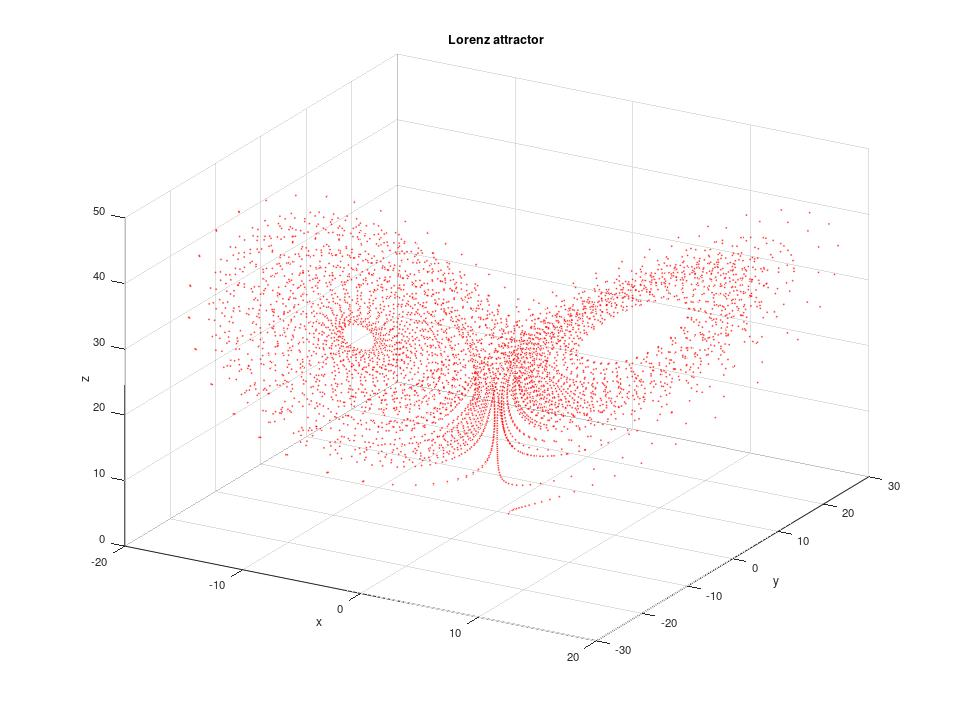
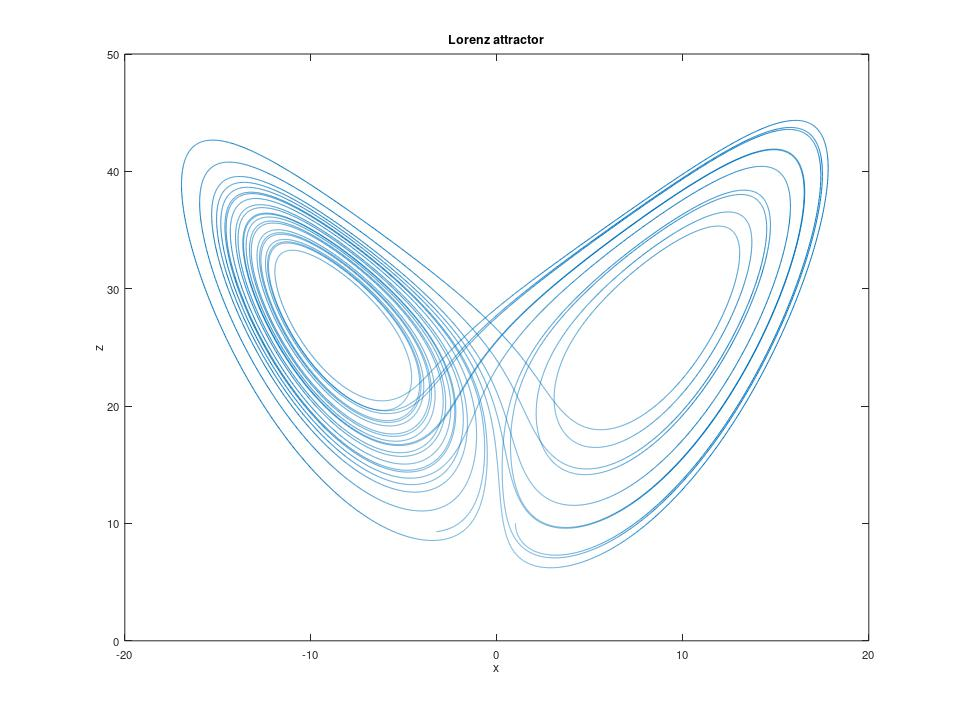
lorenz attactor xz plane

diff --git a/ode/lorenz_attractor/octave/attractor.m b/ode/lorenz_attractor/octave/attractor.m
@@ -1,8 +1,8 @@
 % Lorenz attractor
 
+rho = 28;
 sigma = 10;
 beta = 8/3;
-rho = 28;
 
 f = @(t, u) [
   -sigma*u(1) + sigma*u(2);
@@ -10,13 +10,18 @@ f = @(t, u) [
   -beta*u(3) + u(1)*u(2)
 ];
 
-[t, u] = ode45(f, [0 100], [1 0 0]);     % Runge-Kutta 4th/5th order ODE solver
+% Dormand-Prince adaptive ODE solver
+opt = odeset("MaxStep", 0.002);
+[t, u] = ode45(f, [0 24], [1 1 10], opt);
 
-scatter3(u(:, 1), u(:, 2), u(:, 3), 1.2, 'r') % marker size and color
-view (30, 30)      % azimuth and elevation
-xlabel "x"
-ylabel "y"
-zlabel "z"
-title("Lorenz attractor")
-print("orbit.jpg", "-S960,720");
+% Plot orbit
+function hf = mk_orbit_plot(x, y)
+  plot(x, y)
+  xlabel "x"
+  ylabel "z"
+  title("Lorenz attractor")
+  print("orbit.jpg", "-S960,720");
+endfunction
+
+mk_orbit_plot(u(:, 1), u(:, 3));
 
